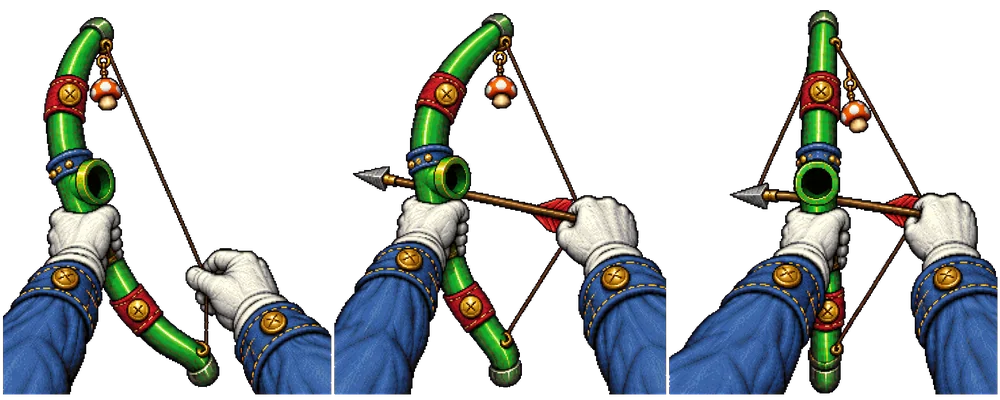
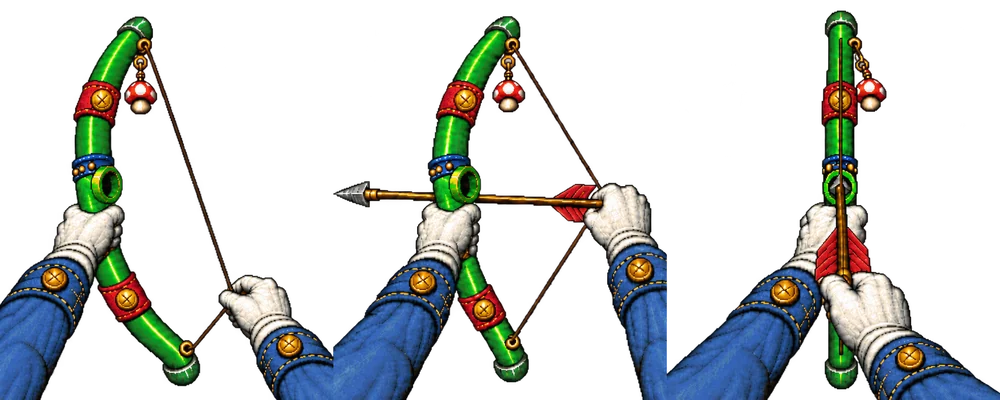
NOSTOS: arco de fontanero nuevo y modo de prueba de arcos por URL
El arco de fontanero pasa a la version con la flecha vista desde atras en escorzo, la
cuerda dibujada por delante del asta y el agarre corregido.

Añade ?arco=<id> para probar cualquiera de los seis arcos sin tenerlo desbloqueado.
Solo fuerza el sprite del HUD: no escribe en localStorage, no marca la mision como
cumplida y no toca el arco que el jugador lleve puesto. Al quitar el parametro todo
vuelve a lo que estaba.

diff --git a/nostos/src/main.js b/nostos/src/main.js
@@ -1,27 +1,27 @@
 import * as THREE from 'three';
-import { NIVEL_PRUEBA, construir, CELDA } from './mapa.js?v=20260907182146';
-import { Jugador } from './jugador.js?v=20260907182146';
-import { Enemigo, TIPOS } from './enemigos.js?v=20260907182146';
-import { cortarTira, cortarRejilla, cargarImagen, recorteEntero, recorteSuperior, recorteInferior, Billboard } from './sprites.js?v=20260907182146';
-import { Objeto, CATALOGO } from './objetos.js?v=20260907182146';
-import { Rondas } from './rondas.js?v=20260907182146';
-import { Tienda, porId, MEJORAS, CONSUMIBLES } from './tienda.js?v=20260907182146';
-import { RELIQUIAS, porReliquia } from './reliquias.js?v=20260907182146';
-import { TINTES, COLORES, MIRAS, leer, guardar, aplicar } from './apariencia.js?v=20260907182146';
-import { MODOS, MEJORAS_MERCADER, OBJETOS as OBJETOS_GLORIA, ESTILOS, LIMITE_OBJETOS, TODO as TODO_GLORIA, estado as estadoGloria, guardar as guardarGloria, activo as modoActivo } from './gloria.js?v=20260907182146';
-import { Minimapa, Marcas } from './minimapa.js?v=20260907182146';
-import { Flujo } from './flujo.js?v=20260907182146';
-import { Portales, trazar } from './portales.js?v=20260907182146';
-import { romper } from './mapa.js?v=20260907182146';
-import { Audio } from './audio.js?v=20260907182146';
-import { OtroLado } from './otrolado.js?v=20260907182146';
-import { Grieta } from './grieta.js?v=20260907182146';
-import { Director } from './director.js?v=20260907182146';
-import { Cerco } from './cerco.js?v=20260907182146';
-import { esTactil, esTelefono, Tactil } from './tactil.js?v=20260907182146';
-import { TIPOS as T } from './enemigos.js?v=20260907182146';
-import { siluetaCiclope } from './texturas.js?v=20260907182146';
-import { Misiones, ARCOS } from './misiones.js?v=20260907182146';
+import { NIVEL_PRUEBA, construir, CELDA } from './mapa.js?v=20260907185243';
+import { Jugador } from './jugador.js?v=20260907185243';
+import { Enemigo, TIPOS } from './enemigos.js?v=20260907185243';
+import { cortarTira, cortarRejilla, cargarImagen, recorteEntero, recorteSuperior, recorteInferior, Billboard } from './sprites.js?v=20260907185243';
+import { Objeto, CATALOGO } from './objetos.js?v=20260907185243';
+import { Rondas } from './rondas.js?v=20260907185243';
+import { Tienda, porId, MEJORAS, CONSUMIBLES } from './tienda.js?v=20260907185243';
+import { RELIQUIAS, porReliquia } from './reliquias.js?v=20260907185243';
+import { TINTES, COLORES, MIRAS, leer, guardar, aplicar } from './apariencia.js?v=20260907185243';
+import { MODOS, MEJORAS_MERCADER, OBJETOS as OBJETOS_GLORIA, ESTILOS, LIMITE_OBJETOS, TODO as TODO_GLORIA, estado as estadoGloria, guardar as guardarGloria, activo as modoActivo } from './gloria.js?v=20260907185243';
+import { Minimapa, Marcas } from './minimapa.js?v=20260907185243';
+import { Flujo } from './flujo.js?v=20260907185243';
+import { Portales, trazar } from './portales.js?v=20260907185243';
+import { romper } from './mapa.js?v=20260907185243';
+import { Audio } from './audio.js?v=20260907185243';
+import { OtroLado } from './otrolado.js?v=20260907185243';
+import { Grieta } from './grieta.js?v=20260907185243';
+import { Director } from './director.js?v=20260907185243';
+import { Cerco } from './cerco.js?v=20260907185243';
+import { esTactil, esTelefono, Tactil } from './tactil.js?v=20260907185243';
+import { TIPOS as T } from './enemigos.js?v=20260907185243';
+import { siluetaCiclope } from './texturas.js?v=20260907185243';
+import { Misiones, ARCOS } from './misiones.js?v=20260907185243';
 
 const ESCALA_RETRO = 3.2;
 const lienzo = document.getElementById('lienzo');
@@ -131,12 +131,12 @@ let destelloGuante = 0;
 let texturasNivel = null;
 
 const ARCOS_HOJA = [
-  ['arcoFontanero', './arte/crudo/arco-fontanero.webp?v=20260907182146'],
-  ['arcoSierra', './arte/crudo/arco-sierra.webp?v=20260907182146'],
-  ['arcoPortal', './arte/crudo/arco-portal.webp?v=20260907182146'],
-  ['arcoFantasma', './arte/crudo/arco-fantasma.webp?v=20260907182146'],
-  ['arcoSable', './arte/crudo/arco-sable.webp?v=20260907182146'],
-  ['arcoAbismo', './arte/crudo/arco-abismo.webp?v=20260907182146']
+  ['arcoFontanero', './arte/crudo/arco-fontanero.webp?v=20260907185243'],
+  ['arcoSierra', './arte/crudo/arco-sierra.webp?v=20260907185243'],
+  ['arcoPortal', './arte/crudo/arco-portal.webp?v=20260907185243'],
+  ['arcoFantasma', './arte/crudo/arco-fantasma.webp?v=20260907185243'],
+  ['arcoSable', './arte/crudo/arco-sable.webp?v=20260907185243'],
+  ['arcoAbismo', './arte/crudo/arco-abismo.webp?v=20260907185243']
 ];
 
 function cargarArcos() {
@@ -152,44 +152,44 @@ function cargarArcos() {
 async function cargarArte() {
   const [idle, atk, die, bow, muros, cosas, mercancia, pIdle, pAtk, pDie, horn, viejo, rostros, mano, reliquias, cordel, asta, hachaImg, picoImg, manoImg, fuegoImg, medallas, cuchilloImg, tajoImg, vueloImg, kTajoImg, cicRayo, cicLanza, cicCuchillo, cicFuego, cicHacha, cicBomba, fichasImg,
     polIdle, polAtk, polDie, bombaMano, bombaPeg] = await Promise.all([
-    cargarImagen('./arte/crudo/ciclope.webp?v=20260907182146'),
-    cargarImagen('./arte/crudo/ciclope-ataca.webp?v=20260907182146'),
-    cargarImagen('./arte/crudo/ciclope-muere.webp?v=20260907182146'),
-    cargarImagen('./arte/crudo/arco.webp?v=20260907182146'),
-    cargarImagen('./arte/crudo/texturas.webp?v=20260907182146'),
-    cargarImagen('./arte/crudo/items.webp?v=20260907182146'),
-    cargarImagen('./arte/crudo/tienda.webp?v=20260907182146'),
-    cargarImagen('./arte/crudo/pretendiente.webp?v=20260907182146'),
-    cargarImagen('./arte/crudo/pretendiente-ataca.webp?v=20260907182146'),
-    cargarImagen('./arte/crudo/pretendiente-muere.webp?v=20260907182146'),
-    cargarImagen('./arte/crudo/cuerno.webp?v=20260907182146'),
-    cargarImagen('./arte/crudo/mercader.webp?v=20260907182146'),
-    cargarImagen('./arte/crudo/caras.webp?v=20260907182146'),
-    cargarImagen('./arte/crudo/guante.webp?v=20260907182146'),
-    cargarImagen('./arte/crudo/objetos2.webp?v=20260907182146'),
-    cargarImagen('./arte/crudo/hilo.webp?v=20260907182146'),
-    cargarImagen('./arte/crudo/jabalina.webp?v=20260907182146'),
-    cargarImagen('./arte/crudo/hacha.webp?v=20260907182146'),
-    cargarImagen('./arte/crudo/pico.webp?v=20260907182146'),
-    cargarImagen('./arte/crudo/mano.webp?v=20260907182146'),
-    cargarImagen('./arte/crudo/fuego.webp?v=20260907182146'),
-    cargarImagen('./arte/crudo/insignias.webp?v=20260907182146'),
-    cargarImagen('./arte/crudo/cuchillo.webp?v=20260907182146'),
-    cargarImagen('./arte/crudo/hacha-tajo.webp?v=20260907182146'),
-    cargarImagen('./arte/crudo/hacha-vuelo.webp?v=20260907182146'),
-    cargarImagen('./arte/crudo/cuchillo-tajo.webp?v=20260907182146'),
-    cargarImagen('./arte/crudo/ciclope-rayo.webp?v=20260907182146'),
-    cargarImagen('./arte/crudo/ciclope-lanza.webp?v=20260907182146'),
-    cargarImagen('./arte/crudo/ciclope-cuchillo.webp?v=20260907182146'),
-    cargarImagen('./arte/crudo/ciclope-fuego.webp?v=20260907182146'),
-    cargarImagen('./arte/crudo/ciclope-hacha.webp?v=20260907182146'),
-    cargarImagen('./arte/crudo/ciclope-bomba.webp?v=20260907182146'),
-    cargarImagen('./arte/crudo/fichas.webp?v=20260907182146'),
-    cargarImagen('./arte/crudo/polifemo.webp?v=20260907182146'),
-    cargarImagen('./arte/crudo/polifemo-ataca.webp?v=20260907182146'),
-    cargarImagen('./arte/crudo/polifemo-muere.webp?v=20260907182146'),
-    cargarImagen('./arte/crudo/bomba.webp?v=20260907182146'),
-    cargarImagen('./arte/crudo/bomba-pegada.webp?v=20260907182146')
+    cargarImagen('./arte/crudo/ciclope.webp?v=20260907185243'),
+    cargarImagen('./arte/crudo/ciclope-ataca.webp?v=20260907185243'),
+    cargarImagen('./arte/crudo/ciclope-muere.webp?v=20260907185243'),
+    cargarImagen('./arte/crudo/arco.webp?v=20260907185243'),
+    cargarImagen('./arte/crudo/texturas.webp?v=20260907185243'),
+    cargarImagen('./arte/crudo/items.webp?v=20260907185243'),
+    cargarImagen('./arte/crudo/tienda.webp?v=20260907185243'),
+    cargarImagen('./arte/crudo/pretendiente.webp?v=20260907185243'),
+    cargarImagen('./arte/crudo/pretendiente-ataca.webp?v=20260907185243'),
+    cargarImagen('./arte/crudo/pretendiente-muere.webp?v=20260907185243'),
+    cargarImagen('./arte/crudo/cuerno.webp?v=20260907185243'),
+    cargarImagen('./arte/crudo/mercader.webp?v=20260907185243'),
+    cargarImagen('./arte/crudo/caras.webp?v=20260907185243'),
+    cargarImagen('./arte/crudo/guante.webp?v=20260907185243'),
+    cargarImagen('./arte/crudo/objetos2.webp?v=20260907185243'),
+    cargarImagen('./arte/crudo/hilo.webp?v=20260907185243'),
+    cargarImagen('./arte/crudo/jabalina.webp?v=20260907185243'),
+    cargarImagen('./arte/crudo/hacha.webp?v=20260907185243'),
+    cargarImagen('./arte/crudo/pico.webp?v=20260907185243'),
+    cargarImagen('./arte/crudo/mano.webp?v=20260907185243'),
+    cargarImagen('./arte/crudo/fuego.webp?v=20260907185243'),
+    cargarImagen('./arte/crudo/insignias.webp?v=20260907185243'),
+    cargarImagen('./arte/crudo/cuchillo.webp?v=20260907185243'),
+    cargarImagen('./arte/crudo/hacha-tajo.webp?v=20260907185243'),
+    cargarImagen('./arte/crudo/hacha-vuelo.webp?v=20260907185243'),
+    cargarImagen('./arte/crudo/cuchillo-tajo.webp?v=20260907185243'),
+    cargarImagen('./arte/crudo/ciclope-rayo.webp?v=20260907185243'),
+    cargarImagen('./arte/crudo/ciclope-lanza.webp?v=20260907185243'),
+    cargarImagen('./arte/crudo/ciclope-cuchillo.webp?v=20260907185243'),
+    cargarImagen('./arte/crudo/ciclope-fuego.webp?v=20260907185243'),
+    cargarImagen('./arte/crudo/ciclope-hacha.webp?v=20260907185243'),
+    cargarImagen('./arte/crudo/ciclope-bomba.webp?v=20260907185243'),
+    cargarImagen('./arte/crudo/fichas.webp?v=20260907185243'),
+    cargarImagen('./arte/crudo/polifemo.webp?v=20260907185243'),
+    cargarImagen('./arte/crudo/polifemo-ataca.webp?v=20260907185243'),
+    cargarImagen('./arte/crudo/polifemo-muere.webp?v=20260907185243'),
+    cargarImagen('./arte/crudo/bomba.webp?v=20260907185243'),
+    cargarImagen('./arte/crudo/bomba-pegada.webp?v=20260907185243')
   ]);
 
   const quieto = idle ? cortarTira(idle, 4) : [0, 1, 2, 3].map(siluetaCiclope);
@@ -645,7 +645,13 @@ function presaCercana(yo) {
   return null;
 }
 
+const ARCO_PRUEBA = new URLSearchParams(location.search).get('arco');
+
 function arcoPuesto() {
+  if (ARCO_PRUEBA) {
+    const p = ARCOS.find(x => x.id === ARCO_PRUEBA);
+    if (p && recursos[p.hoja]) return p.hoja;
+  }
   if (!misiones) return null;
   const id = misiones.arcoPuesto;
   if (!id || !misiones.ganado(id)) return null;

diff --git a/nostos/src/enemigos.js b/nostos/src/enemigos.js
@@ -1,6 +1,6 @@
 import * as THREE from 'three';
-import { Billboard } from './sprites.js?v=20260907182146';
-import { CELDA, esSolido } from './mapa.js?v=20260907182146';
+import { Billboard } from './sprites.js?v=20260907185243';
+import { CELDA, esSolido } from './mapa.js?v=20260907185243';
 
 const RADIO = 1.6;
 const RANGO_VISTA = 70;

diff --git a/nostos/src/objetos.js b/nostos/src/objetos.js
@@ -1,5 +1,5 @@
 import * as THREE from 'three';
-import { Billboard } from './sprites.js?v=20260907182146';
+import { Billboard } from './sprites.js?v=20260907185243';
 
 export const CATALOGO = [
   { id: 'flechas',  celda: 0,  alto: 2.0, efecto: 'flechas',  valor: 10, aviso: '+10 FLECHAS' },

diff --git a/nostos/src/mapa.js b/nostos/src/mapa.js
@@ -1,6 +1,6 @@
 import * as THREE from 'three';
 import { mergeGeometries } from 'three/addons/utils/BufferGeometryUtils.js';
-import { banco } from './texturas.js?v=20260907182146';
+import { banco } from './texturas.js?v=20260907185243';
 
 export const CELDA = 4;
 export const ALTO = 10;

diff --git a/nostos/index.html b/nostos/index.html
@@ -387,6 +387,6 @@
       "three/addons/": "https://cdn.jsdelivr.net/npm/three@0.160.0/examples/jsm/"
   } }
   </script>
-  <script type="module" src="./src/main.js?v=20260907182146"></script>
+  <script type="module" src="./src/main.js?v=20260907185243"></script>
 </body>
 </html>

diff --git a/nostos/src/tienda.js b/nostos/src/tienda.js
@@ -1,4 +1,4 @@
-import { RELIQUIAS } from './reliquias.js?v=20260907182146';
+import { RELIQUIAS } from './reliquias.js?v=20260907185243';
 
 export const MEJORAS = [
   { id: 'cuerda', nombre: 'CUERDA DE TENDON', precio: 90, celda: 0, respaldo: 1,

diff --git a/nostos/src/portales.js b/nostos/src/portales.js
@@ -1,5 +1,5 @@
 import * as THREE from 'three';
-import { CELDA, ALTO, esSolido } from './mapa.js?v=20260907182146';
+import { CELDA, ALTO, esSolido } from './mapa.js?v=20260907185243';
 
 const ANCHO_PORTAL = 3.7;
 const ALTO_PORTAL = 5.5;

diff --git a/nostos/src/jugador.js b/nostos/src/jugador.js
@@ -1,5 +1,5 @@
 import * as THREE from 'three';
-import { CELDA, esSolido } from './mapa.js?v=20260907182146';
+import { CELDA, esSolido } from './mapa.js?v=20260907185243';
 
 const VELOCIDAD = 15;
 const VELOCIDAD_LATERAL = 12;

diff --git a/nostos/src/flujo.js b/nostos/src/flujo.js
@@ -1,4 +1,4 @@
-import { CELDA, esSolido } from './mapa.js?v=20260907182146';
+import { CELDA, esSolido } from './mapa.js?v=20260907185243';
 
 export class Flujo {
   constructor(nivel) {

diff --git a/nostos/src/cerco.js b/nostos/src/cerco.js
@@ -1,5 +1,5 @@
 import * as THREE from 'three';
-import { CELDA } from './mapa.js?v=20260907182146';
+import { CELDA } from './mapa.js?v=20260907185243';
 
 const LLAMAS = 46;
 

diff --git a/nostos/src/minimapa.js b/nostos/src/minimapa.js
@@ -1,4 +1,4 @@
-import { CELDA } from './mapa.js?v=20260907182146';
+import { CELDA } from './mapa.js?v=20260907185243';
 
 const COLORES = {
   '#': '#8a7f66',
